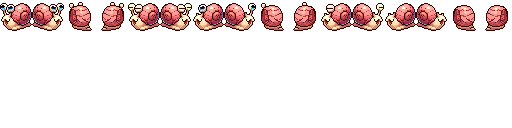
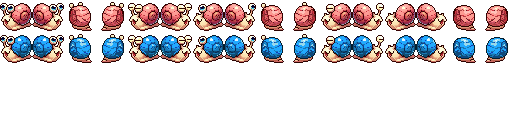
blue snail

Changed region(s): [[0.0, 0.25, 1.0, 0.5]]

diff --git a/src/enemy.c b/src/enemy.c
@@ -12,7 +12,7 @@ EM initializeEnemies(SDL_Renderer* renderer) {
     return enemies;
 }
 
-void newEnemy(EM *enemies, TM *tileManager, int x_pos, int y_pos, int speed) {
+void newEnemy(EM *enemies, TM *tileManager, int type, int x_pos, int y_pos, int speed) {
     int tileX = x_pos / TILESIZE;
     int tileY = y_pos / TILESIZE;
 
@@ -21,20 +21,31 @@ void newEnemy(EM *enemies, TM *tileManager, int x_pos, int y_pos, int speed) {
         return;
     }
 
-    enemies->inGame[enemies->activeEnemies] = enemies->types[0];
-    enemies->inGame[enemies->activeEnemies].currentTexture = 0;
-    enemies->inGame[enemies->activeEnemies].type = 0;
-    enemies->inGame[enemies->activeEnemies].isDead = false;
-    enemies->inGame[enemies->activeEnemies].speed = speed;
-    enemies->inGame[enemies->activeEnemies].level = 0;
-    enemies->inGame[enemies->activeEnemies].direction = RIGHT;
-    enemies->inGame[enemies->activeEnemies].lastHorizontalDirection = RIGHT;
+    switch(type) {
+        case 0:
+            enemies->inGame[enemies->activeEnemies].type = 0;
+            enemies->inGame[enemies->activeEnemies].maxHP = 4;
+            enemies->inGame[enemies->activeEnemies].hp = 4;
+            break;
+        case 1:
+            enemies->inGame[enemies->activeEnemies].type = 1;
+            enemies->inGame[enemies->activeEnemies].maxHP = 8;
+            enemies->inGame[enemies->activeEnemies].hp = 8;
+            break;
+        default: 
+            enemies->inGame[enemies->activeEnemies].type = 1;
+            enemies->inGame[enemies->activeEnemies].maxHP = 4;
+            enemies->inGame[enemies->activeEnemies].hp = 4;
+    }
+
     enemies->inGame[enemies->activeEnemies].x = x_pos;
     enemies->inGame[enemies->activeEnemies].y = y_pos;
-    enemies->inGame[enemies->activeEnemies].y = y_pos;
     enemies->inGame[enemies->activeEnemies].tilesTraveled = 0;
-    enemies->inGame[enemies->activeEnemies].maxHP = 4;
-    enemies->inGame[enemies->activeEnemies].hp = 4;
+    enemies->inGame[enemies->activeEnemies].direction = RIGHT;
+    enemies->inGame[enemies->activeEnemies].lastHorizontalDirection = RIGHT;
+    enemies->inGame[enemies->activeEnemies].speed = speed;
+    enemies->inGame[enemies->activeEnemies].isDead = false;
+    enemies->inGame[enemies->activeEnemies].currentTexture = 0;
 
     (enemies->activeEnemies)++;
 }
@@ -59,21 +70,21 @@ int loadEnemies(EM *enemies) {
             }
 
             SDL_Rect cropRect = {j * 32, i * 32, 32, 32};
-            enemies->types[0].texture[spriteIndex] = SDL_CreateTexture(
+            enemies->textures[spriteIndex] = SDL_CreateTexture(
                 enemies->renderer,
                 SDL_PIXELFORMAT_RGBA8888,
                 SDL_TEXTUREACCESS_TARGET,
                 TILESIZE,
                 TILESIZE
             );
-            if (!enemies->types[0].texture[spriteIndex]) {
+            if (!enemies->textures[spriteIndex]) {
                 printf("Failed to create sprite texture: %s\n", SDL_GetError());
                 SDL_DestroyTexture(sheet);
                 return false;
             }
             
-            SDL_SetRenderTarget(enemies->renderer, enemies->types[0].texture[spriteIndex]);
-            SDL_SetTextureBlendMode(enemies->types[0].texture[spriteIndex], SDL_BLENDMODE_BLEND);
+            SDL_SetRenderTarget(enemies->renderer, enemies->textures[spriteIndex]);
+            SDL_SetTextureBlendMode(enemies->textures[spriteIndex], SDL_BLENDMODE_BLEND);
 
             if (SDL_RenderCopy(enemies->renderer, sheet, &cropRect, NULL) < 0) {
                 printf("Failed to render copy sprite: %s\n", SDL_GetError());
@@ -83,7 +94,7 @@ int loadEnemies(EM *enemies) {
 
             SDL_SetRenderTarget(enemies->renderer, NULL);
 
-            if (!enemies->types[0].texture[spriteIndex]) {
+            if (!enemies->textures[spriteIndex]) {
                 printf("Texture creation failed at sprite %d: %s\n", spriteIndex, SDL_GetError());
             }
 
@@ -157,21 +168,21 @@ void updateEnemies(EM *enemies, TM *tileManager) {
         switch (enemy->direction) {
             case UP:
                 if(enemy->lastHorizontalDirection == RIGHT)
-                    enemy->currentTexture = 3 + hp;
-                else enemy->currentTexture = 2 + hp;
+                    enemy->currentTexture = (enemy->type*16) + 3 + hp;
+                else enemy->currentTexture = (enemy->type*16) + 2 + hp;
 
                 enemy->y -= enemy->speed;
                 break;
             case DOWN:
                 if(ticks >= 30 && hp != 12) {
                     if(enemy->lastHorizontalDirection == RIGHT)
-                        enemy->currentTexture = 5 + hp;
-                    else enemy->currentTexture = 4 + hp;
+                        enemy->currentTexture = (enemy->type*16) + 5 + hp;
+                    else enemy->currentTexture = (enemy->type*16) + 4 + hp;
                 }
                 else {
                     if(enemy->lastHorizontalDirection == RIGHT)
-                        enemy->currentTexture = 1 + hp;
-                    else enemy->currentTexture = 0 + hp;
+                        enemy->currentTexture = (enemy->type*16) + 1 + hp;
+                    else enemy->currentTexture = (enemy->type*16) + 0 + hp;
                 }
                 
                 enemy->y += enemy->speed;
@@ -180,8 +191,8 @@ void updateEnemies(EM *enemies, TM *tileManager) {
                 enemy->lastHorizontalDirection = LEFT;
 
                 if(ticks >= 30 && hp != 12) 
-                    enemy->currentTexture = 4 + hp;
-                else enemy->currentTexture = 0 + hp;
+                    enemy->currentTexture = (enemy->type*16) + 4 + hp;
+                else enemy->currentTexture = (enemy->type*16) + 0 + hp;
 
                 enemy->x -= enemy->speed;
                 break;
@@ -189,8 +200,8 @@ void updateEnemies(EM *enemies, TM *tileManager) {
                 enemy->lastHorizontalDirection = RIGHT;
 
                 if(ticks >= 30 && hp != 12)
-                    enemy->currentTexture = 5 + hp;
-                else enemy->currentTexture = 1 + hp;
+                    enemy->currentTexture = (enemy->type*16) + 5 + hp;
+                else enemy->currentTexture = (enemy->type*16) + 1 + hp;
 
                 enemy->x += enemy->speed;
                 break;
@@ -233,7 +244,7 @@ void spawnEnemies(EM *enemies, TM *tileManager) {
             if(ticks > 140) {
                 if(enemies->activeEnemies < 10) {
                     ticks = 0;
-                    newEnemy(enemies, tileManager, 0*TILESIZE, 4*TILESIZE, 2);
+                    newEnemy(enemies, tileManager, 0, 0*TILESIZE, 4*TILESIZE, 2);
                     wait = false;
                 }
                 else {
@@ -246,7 +257,7 @@ void spawnEnemies(EM *enemies, TM *tileManager) {
             if(ticks > 100) {
                 if(enemies->activeEnemies < 4) {
                     ticks = 0;
-                    newEnemy(enemies, tileManager, 0*TILESIZE, 4*TILESIZE, 4);
+                    newEnemy(enemies, tileManager, 0, 0*TILESIZE, 4*TILESIZE, 4);
                     wait = false;
                 }
                 else {
@@ -259,8 +270,8 @@ void spawnEnemies(EM *enemies, TM *tileManager) {
             if(ticks > 100) {
                 if(enemies->activeEnemies < 20) {
                     ticks = 0;
-                    newEnemy(enemies, tileManager, 0*TILESIZE, 4*TILESIZE, 3);
-                    wait = false;
+                    newEnemy(enemies, tileManager, 1, 0*TILESIZE, 4*TILESIZE, 3);
+                    wait = false; 
                 }
                 else {
                     nextRound = true;
@@ -272,7 +283,7 @@ void spawnEnemies(EM *enemies, TM *tileManager) {
             if(ticks > 80) {
                 if(enemies->activeEnemies < 10) {
                     ticks = 0;
-                    newEnemy(enemies, tileManager, 0*TILESIZE, 4*TILESIZE, 3);
+                    newEnemy(enemies, tileManager, 1, 0*TILESIZE, 4*TILESIZE, 3);
                     wait = false;
                 }
                 else {
@@ -285,7 +296,7 @@ void spawnEnemies(EM *enemies, TM *tileManager) {
             if(ticks > 120) {
                 if(enemies->activeEnemies < 20) {
                     ticks = 0;
-                    newEnemy(enemies, tileManager, 0*TILESIZE, 4*TILESIZE, 4);
+                    newEnemy(enemies, tileManager, 1, 0*TILESIZE, 4*TILESIZE, 4);
                     wait = false;
                 }
                 else {
@@ -298,7 +309,7 @@ void spawnEnemies(EM *enemies, TM *tileManager) {
             if(ticks > 10) {
                 if(enemies->activeEnemies < 40) {
                     ticks = 0;
-                    newEnemy(enemies, tileManager, 0*TILESIZE, 4*TILESIZE, 5);
+                    newEnemy(enemies, tileManager, 1, 0*TILESIZE, 4*TILESIZE, 5);
                     wait = false;
                 }
                 else {
@@ -329,26 +340,16 @@ Enemy *isEnemy(EM *enemies) {
 void drawEnemies(EM *enemies) {
     SDL_Texture *texture;
 
-    for(int i = enemies->activeEnemies; i >= 0 ; i--) {
+    for (int i = enemies->activeEnemies - 1; i >= 0; i--) {
         if(!enemies->inGame[i].isDead) {
-            texture = enemies->inGame[i].texture[enemies->inGame[i].currentTexture];
+            texture = enemies->textures[enemies->inGame[i].currentTexture];
             SDL_Rect texture_rect = {enemies->inGame[i].x, enemies->inGame[i].y, TILESIZE, TILESIZE};
             SDL_RenderCopy(enemies->renderer, texture, NULL, &texture_rect); 
-
-            if(enemies->inGame[i].hp <= 2) {
-                texture = enemies->lowHPTexture;
-                SDL_Rect texture_rect = {enemies->inGame[i].x, enemies->inGame[i].y, TILESIZE, TILESIZE};
-                SDL_RenderCopy(enemies->renderer, texture, NULL, &texture_rect); 
-            }
         }
     }
 }
 
 void cleanupEnemies(EM *enemies) {
     for(int i = 0; i < 64; i++)
-        SDL_DestroyTexture(enemies->types[0].texture[i]);
-
-    for(int i = 0; i < enemies->activeEnemies; i++)
-        for(int j = 0; j < 64; j++)
-            SDL_DestroyTexture(enemies->inGame[i].texture[j]);
+        SDL_DestroyTexture(enemies->textures[i]);
 }

diff --git a/src/enemy.h b/src/enemy.h
@@ -10,12 +10,10 @@ typedef struct coord {
 } Coord;
 
 typedef struct enemy {
-    SDL_Texture *texture[64];
     int currentTexture;
     int lastHorizontalDirection;
     int x, y;
     int type;
-    int level;
     int speed;
     int direction;
     int tilesTraveled;
@@ -25,8 +23,7 @@ typedef struct enemy {
 } Enemy;
 
 typedef struct enemyManager {
-    SDL_Texture *lowHPTexture;
-    Enemy types[10];
+    SDL_Texture *textures[64];
     Enemy inGame[200];
     int currentWave;
     int activeEnemies;
@@ -34,7 +31,7 @@ typedef struct enemyManager {
 } EM;
 
 EM initializeEnemies(SDL_Renderer* renderer);
-void newEnemy(EM *enemies, TM *tileManager, int x_pos, int y_pos, int speed);
+void newEnemy(EM *enemies, TM *tileManager, int type, int x_pos, int y_pos, int speed);
 void spawnEnemies(EM *enemies, TM *tileManager);
 int loadEnemies(EM *enemies);
 void updateEnemies(EM *enemies, TM *tileManager);
